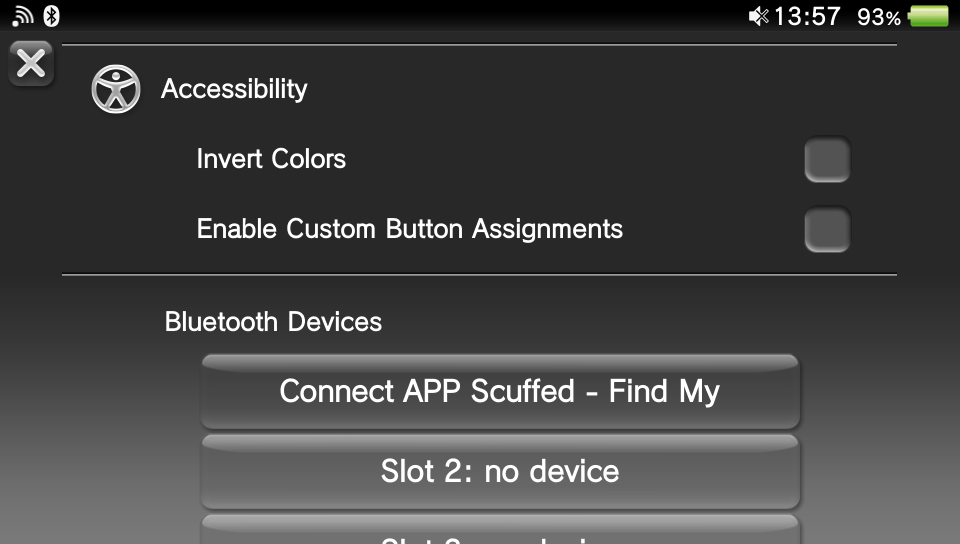
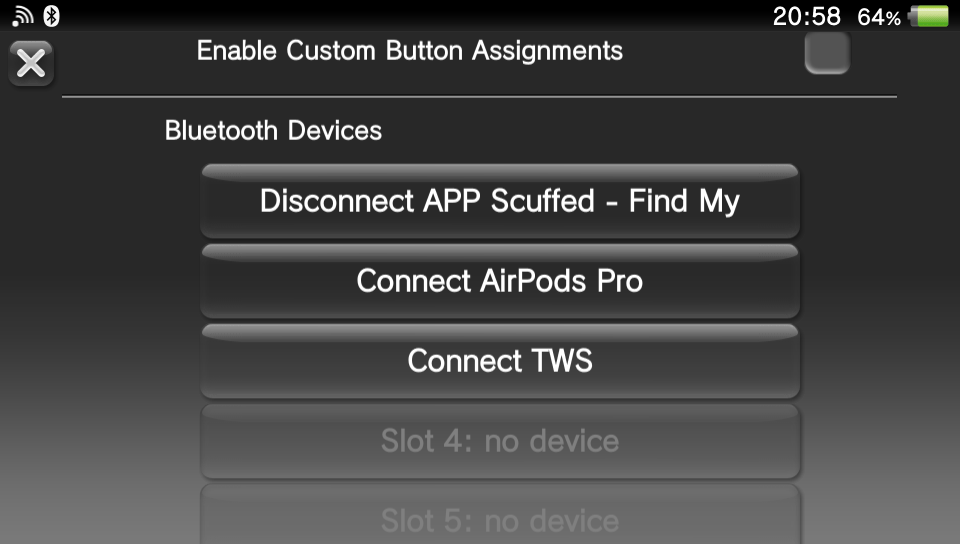
more docstrings and new screenshot

Changed region(s): [[0.0625, 0.2188, 0.9375, 0.75], [0.1875, 0.7812, 0.8438, 1.0], [0.0625, 0.0, 0.9688, 0.2188]]

diff --git a/module_user/src/qm_state.c b/module_user/src/qm_state.c
@@ -209,7 +209,10 @@ static void transition_state_connected(bool* changed, const int idx, bool force)
 }
 
 /**
- * Transition to BTNSTATE_CONNECTING_DISABLED.
+ * Transition one button to BTNSTATE_CONNECTING_DISABLED.
+ *
+ * @param changed Set to true if the state was changed.
+ * @param idx Read/change state for qm_state.buttons[idx].
  */
 static void transition_state_busy_connecting(bool* changed, const int idx) {
     QmButton* qm_button = &qm_state.buttons[idx];
@@ -223,7 +226,11 @@ static void transition_state_busy_connecting(bool* changed, const int idx) {
 }
 
 /**
- * TODO
+ * Transition one button to BTNSTATE_ERROR_DISABLED and set an error message.
+ *
+ * @param changed Set to true if the state was changed.
+ * @param idx Read/change state for qm_state.buttons[idx].
+ * @param error The error message to display as the button's label.
  */
 static void transition_state_error(bool* changed, const int idx, const VqmbtError error) {
     QmButton* qm_button = &qm_state.buttons[idx];
@@ -252,6 +259,9 @@ static void transition_state_error(bool* changed, const int idx, const VqmbtErro
 
 /**
  * TODO
+ *
+ * @param changed Set to true if the state was changed.
+ * @param idx TODO.
  */
 static void button_pressed(bool* changed, const int idx) {
     QmButton* qm_button = &qm_state.buttons[idx];
@@ -289,6 +299,8 @@ static void button_pressed(bool* changed, const int idx) {
 
 /**
  * TODO
+ *
+ * @param changed Set to true if the state was changed.
  */
 static void transition_state_bt_on(bool* changed) {
     for (int idx = 0; idx < VQMBT_MAX_DEVICES; idx++) {
@@ -326,7 +338,10 @@ static void transition_state_bt_on(bool* changed) {
 }
 
 /**
- * Transtion to BTNSTATE_SLOT_EMPTY_DISABLED.
+ * Transition one button to BTNSTATE_SLOT_EMPTY_DISABLED.
+ *
+ * @param changed Set to true if the state was changed.
+ * @param idx Read/change state for qm_state.buttons[idx].
  */
 static void bulk_updated_remove_device(bool* changed, const int idx) {
     QmButton* qm_button = &qm_state.buttons[idx];
@@ -342,6 +357,9 @@ static void bulk_updated_remove_device(bool* changed, const int idx) {
 
 /**
  * TODO
+ *
+ * @param changed Set to true if the state was changed.
+ * @param request TODO.
  */
 static void bulk_update(bool* changed, const QmsRequest* request) {
     for (int idx = 0; idx < VQMBT_MAX_DEVICES; idx++) {